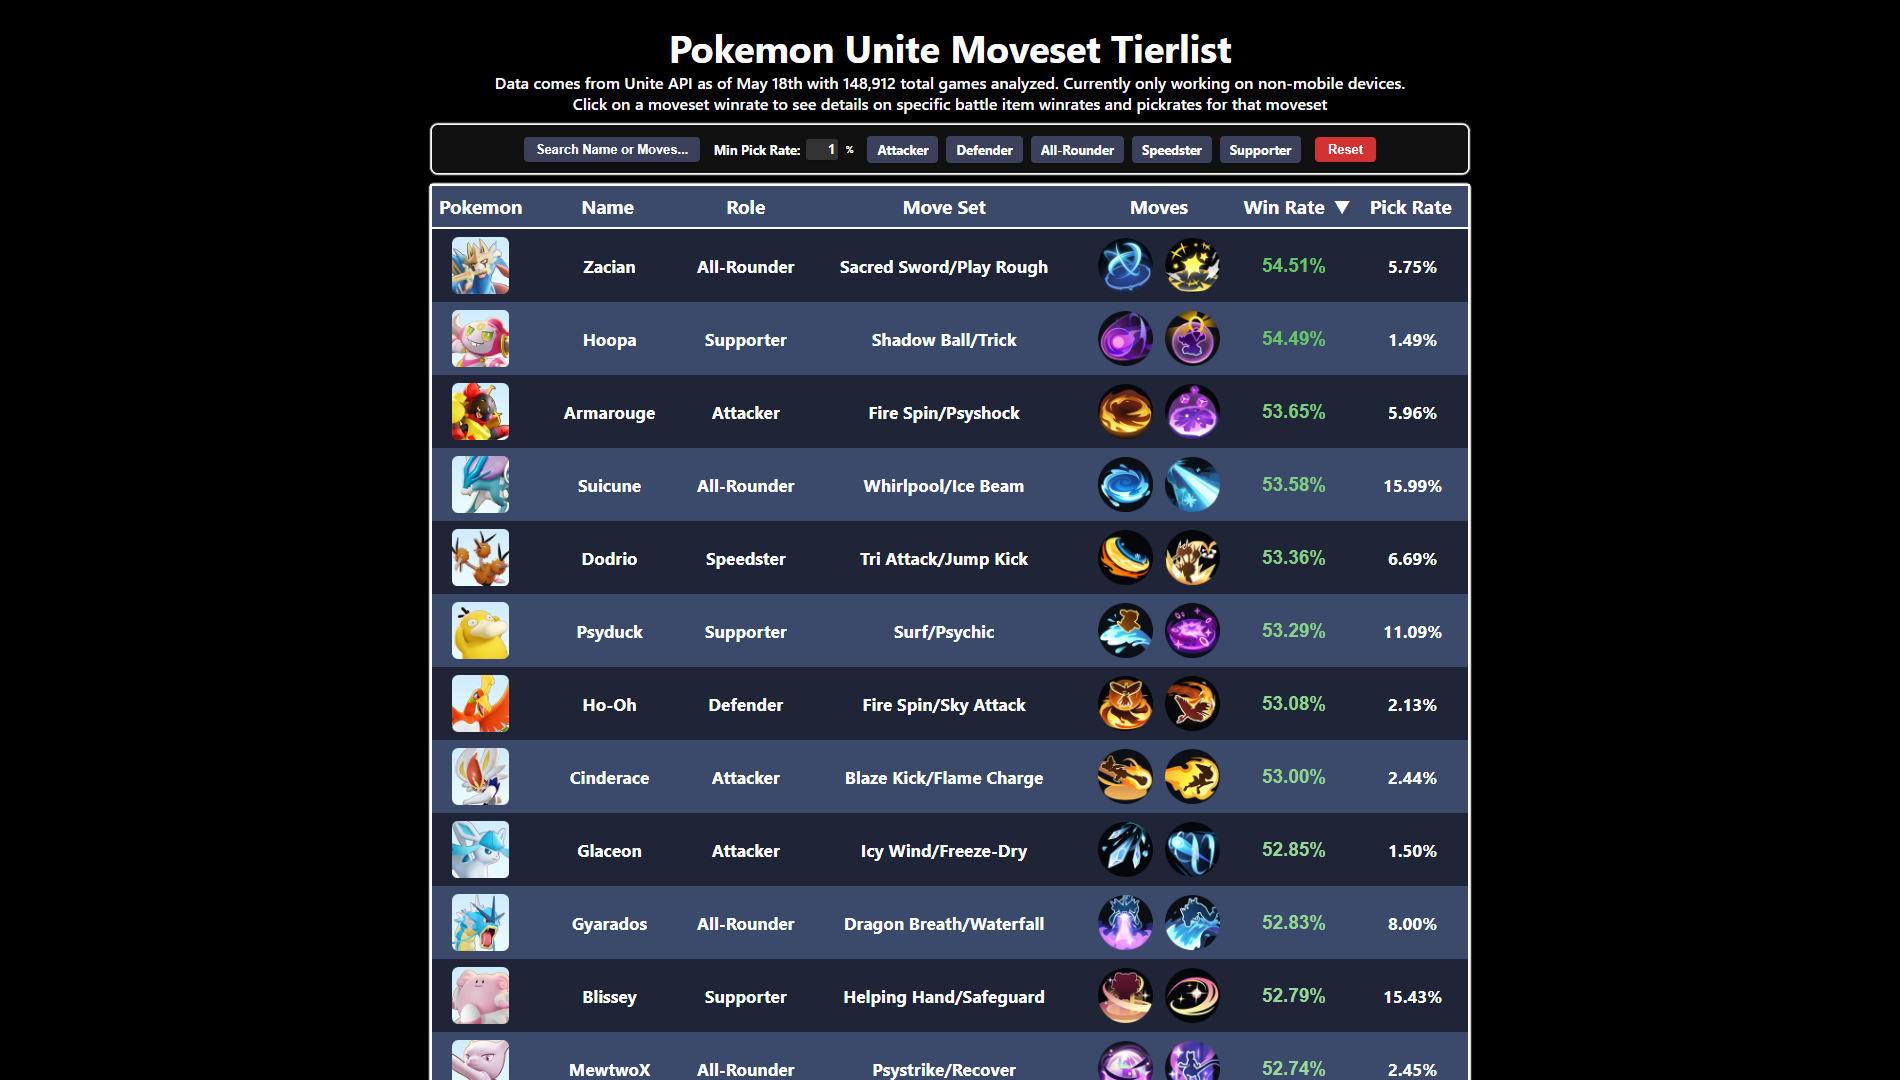
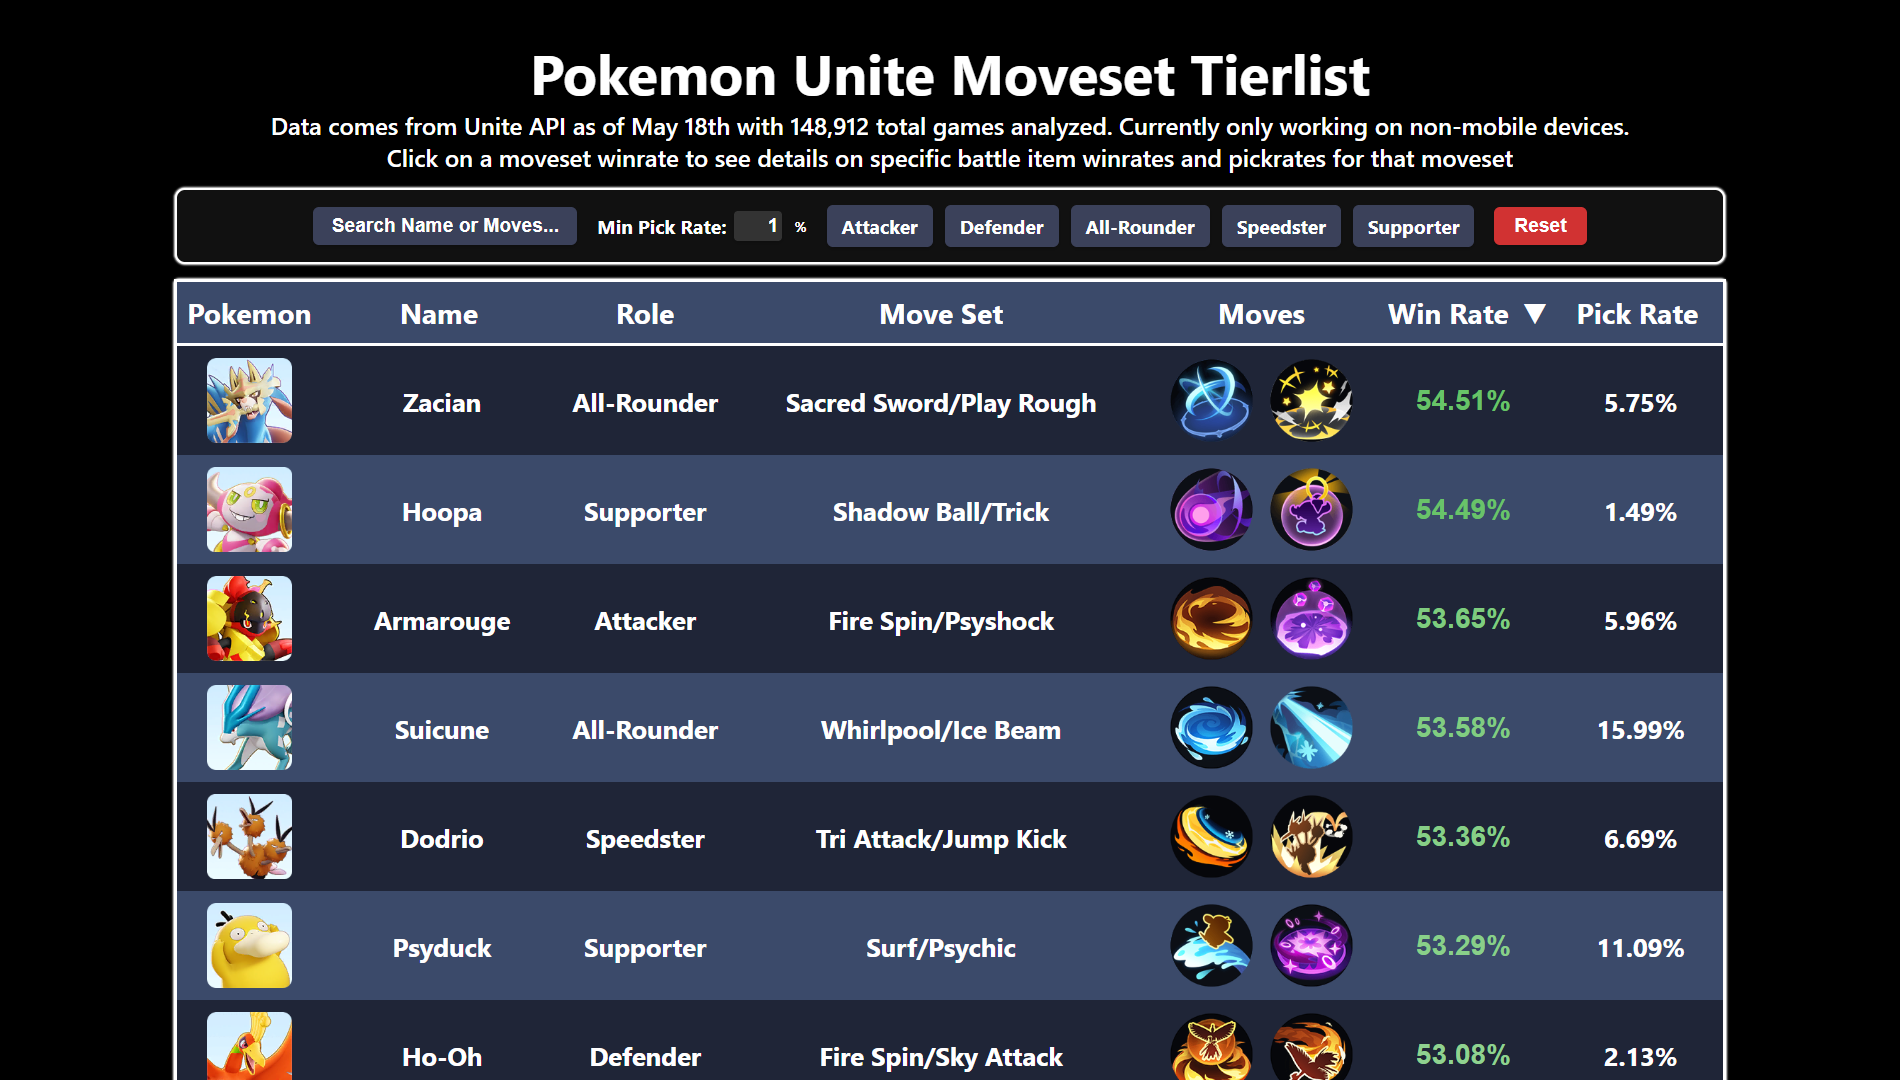
Initial Commit for Unite Builds project

diff --git a/scripts/screenshot.js b/scripts/screenshot.js
@@ -1,25 +1,29 @@
-// screenshot.js
-const path      = require('path');
 const puppeteer = require('puppeteer');
 
 ;(async () => {
   const browser = await puppeteer.launch({
-    // you can also pass the window-size here:
-    args: ['--window-size=1900,1080']
+    headless: true,
+    args: [
+      '--no-sandbox',
+      '--disable-setuid-sandbox',
+      // optionally reduce memory pressure:
+      '--disable-dev-shm-usage'
+    ]
   });
-  const page    = await browser.newPage();
 
-  // explicitly set the viewport
+  const page = await browser.newPage();
   await page.setViewport({ width: 1900, height: 1080 });
-
   await page.goto(
     'https://tannerpolley.github.io/Unite_Builds/',
     { waitUntil: 'networkidle2' }
   );
-
-  const outPath = path.resolve(__dirname, 'preview.png');
-  await page.screenshot({ path: outPath });
-  console.log(`✅ Wrote ${outPath}`);
+  await page.evaluate(() => {
+  document.body.style.zoom = '1.0';
+});
+  const { setTimeout } = require('node:timers/promises');
+  await setTimeout(200);
+  await page.screenshot({ path: 'static/img/preview.png' });
   await browser.close();
+  console.log('✅ preview.png generated');
 })();
 
